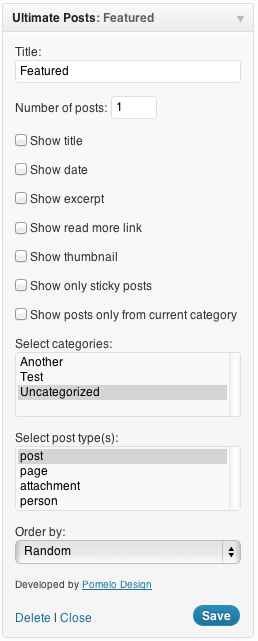
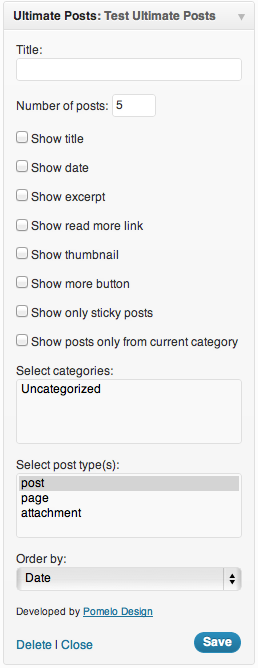
update screenshot

diff --git a/trunk/ultimate-posts-widget.php b/trunk/ultimate-posts-widget.php
@@ -3,7 +3,7 @@
 Plugin Name: Ultimate Posts Widget
 Plugin URI: http://pomelodesign.com/ultimate-posts-widget
 Description: The ultimate widget for displaying posts, custom post types or sticky posts with an array of options.
-Version: 1.4.4
+Version: 1.4.5
 Author: Pomelo Design
 Author URI: http://pomelodesign.com
 License: GPL2
